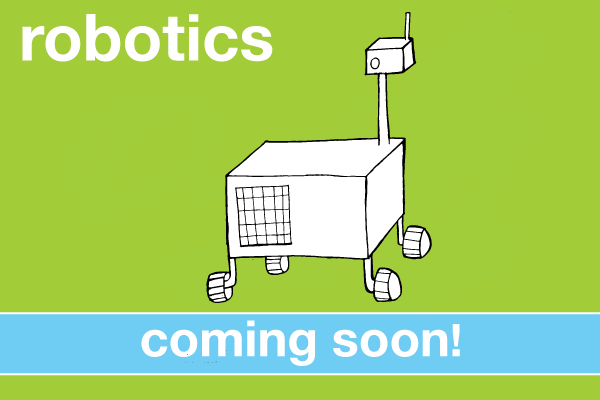
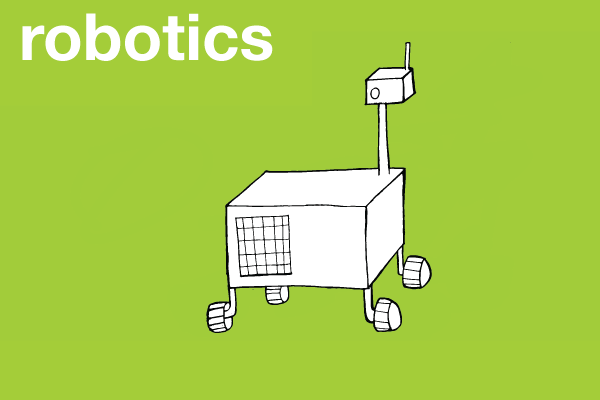
first draft robotics

diff --git a/app/assets/stylesheets/custom.css.scss b/app/assets/stylesheets/custom.css.scss
@@ -146,6 +146,11 @@ $correct_color: #008000;
 	max-width: 30%;
 }
 
+.imagerightxsmall{
+	@extend .imagerightbase;	
+	max-width: 10%;
+}
+
 .imageleftlarge{
 	@extend .imageleftbase;	
 	max-width: 60%;
@@ -164,7 +169,7 @@ $correct_color: #008000;
 
 .imageleftxsmall{
 	@extend .imageleftbase;	
-	max-width: 20%;
+	max-width: 10%;
 }
 
 

diff --git a/db/machines.rb b/db/machines.rb
@@ -95,7 +95,16 @@ section = FactoryGirl.create(:section, topic_id: topic.id, linking:"third", main
 section = FactoryGirl.create(:section, topic_id: topic.id, linking:"fourth", main_idea:"Friction is one of the main forces acting on bikes and cars", header:"<span class='accent1'>Friction</span> is one of the main <span class='accent1'>forces</span> acting on bikes and cars", content:"Friction is what allows bikes and cars to create the traction they need with the ground in order to make a forward force. The greater the friction force on the tires, the less energy that is wasted by the tire spinning without creating forward motion.  Lack of friction becomes a problem for people riding and driving on icy or snowy surfaces.  This is because they are slicker and make it harder to create the needed friction.<br><br>However, friction isn’t always helpful for bikes and cars. Drag is a type of friction that is caused by air rubbing up against the surface of the vehicle. Drag is a common problem among fast forms of transportation like cars, trains, planes, and rockets. The higher the amount of drag, the more energy has to be used to make the vehicle move. Therefore, engineers are working to minimize drag forces on cars by creating more sleeker and aerodynamic shapes. Engineers perform tests to see how to make air flow around the vehicle better. These tests help them fine-tune the shape of the vehicle to reduce drag. You can read more about drag in the Friction section.")
 section = FactoryGirl.create(:section, topic_id: topic.id, linking:"fifth", main_idea:"Bikes and cars both transfer energy between many parts to allow for forward motion", header:"Bikes and cars both <span class='accent1'>transfer energy</span> between many parts to allow for <span class='accent1'>forward motion</span>", content:"Bikes use the power of a human to power the bike forward.  A bike does this by transferring the energy that was applied by a person to the pedals to move a chain on the bike.  This chain is connected to the bike wheels that then turn, creating traction with the ground and moving the bike forward.  Handlebars are used to turn the bike.<br><br>Cars use the power created by a heat engine to move pistons.  These pistons then turn a drive shaft that transfers this power to the wheels of the car. The car is designed in an aerodynamic way so that drag is minimized.")
 
-topic = FactoryGirl.create(:topic, name:"robotics",  navgraphic: "navgraphics/robotics.png", catagory_id: catagory.id, available: "no")
+#topic = FactoryGirl.create(:topic, name:"robotics",  navgraphic: "navgraphics/robotics.png", catagory_id: catagory.id, available: "no")
+topic = FactoryGirl.create(:topic, name:"robotics",  navgraphic: "navgraphics/robotics.png", catagory_id: catagory.id)
+section = FactoryGirl.create(:section, topic_id: topic.id, linking:"first", main_idea:"Robotics is the study of robots", header:"Robotics is the <span class='accent1'>study</span> of <span class='accent1'>robots</span>", section_image: "section_images/robot_169002578.png", image_position: "imagerightxsmall", content:"Robots are everywhere! We see them all over TV, books and film.  Recent examples include Baymax in Big Hero Six to R2D2 in Star Wars to Ultron in Avengers 2: Age of Ultron. So, maybe it is not surprising that the word “robot” actually came from fiction.  The word was first used in a play in the 1920s.")
+section = FactoryGirl.create(:section, topic_id: topic.id, linking:"second", main_idea:"A robot is a machine guided by either computer programs or electric circuitry", header:"A robot is a <span class='accent1'>machine</span> guided by either <span class='accent1'>computer programs</span> or electric <span class='accent1'>circuitry</span>", section_image: "section_images/robot_pack_116544664.jpg", image_position: "imageleftsmall", content:"A robot is a mechanical machine that is guided by either computer programs or electric circuitry. Robots often work <i>autonomously</i> -- that means without human interference. Or, they may work semi-autonomously - with a little human help. Robotics is the study of anything to do with robots including design, construction, control and much more. Robotics is a fast-growing area of technology. Many types of engineers, including Computer, Mechanical and Electrical engineers, may be required to design a robotic machine.")
+section = FactoryGirl.create(:section, topic_id: topic.id, linking:"third", main_idea:"Robots have controls, sensors, parts for movement, and a power supply", header:"Robots have <span class='accent1'>controls</span>, <span class='accent1'>sensors</span>, parts for <span class='accent1'>movement</span>, and a <span class='accent1'>power supply</span>", content:"Robots are a type of machine. A machine is something with one or more parts that uses energy to do a job.  But robots are machines that can operate on their own to some degree. Some main parts of a robot are the <i>controls</i>, <i>sensors</i>, parts for<i> movement</i>, and <i>power</i>. <br><br>The controls and sensors of a robot allow it to operate with some <i>autonomy</i>. Autonomy means that the robot can do some things on its own. It may make decisions to take actions on its own.  Think of a robot traveling a maze that is programmed to make a turn when it encounters a wall.  That is an <i>autonomous</i> decision – it is programmed to make that decision on its own in that situation.<br><br>Controls include the computer programming that gives the robot its directions. The controls can be very detailed to let robots respond to many different things around it. <br><br>The sensors on the robot allow for this response to happen. The sensors detect things around the robot and provide information to allow it to make decisions. For example, sensor might detect that there is a wall in front of the robot. The controls would act on this information and respond, perhaps by turning and changing direction. The controls and sensors work as a team for the robot. There are different types of sensors. A touch sensor reacts when it touches something. That is one way that a sensor could detect a wall. There are sensors that bounce signals off surfaces and see how fast they come back, like a submarine ping. Those could also be used to detect walls. There are many types of sensors.<br><br>Machine parts for movement are also important for a robot. Robots may do many different tasks, so they may need to move in a variety of ways. Some have wheels to allow them to drive. Others have arms that allow them to move in unique patterns, such as picking up and moving objects. Some robots even have legs that let them walk like humans. <br><br>Lastly, robots need a source of power. Some robots, like the Mars Rovers, use solar panels to charge their batteries and power the robot. Others may be plugged into a wall socket, or may run on batteries.")
+section = FactoryGirl.create(:section, topic_id: topic.id, linking:"fourth", main_idea:"Robots can make cars, work in hazardous areas, or explore space", header:"Robots can <span class='accent1'>make cars</span>, work in <span class='accent1'>hazardous areas</span>, or explore <span class='accent1'>space</span> ", section_image: "section_images/robots_asstd.png", image_position: "imagerightmedium", content:"Robots are moving into many different areas of everyday life.  Below are just a few uses for robotics.<br><br>Hazardous Disaster Areas: Autonomous robots are especially useful in places that humans cannot safely go. In 2011, a large earthquake and tsunami struck Japan. The Fukushima nuclear power plant was damaged. Its radiation levels were very high and dangerous for people. So, robots were sent in to investigate the damage inside. Fully autonomous robots can gain information about their environment and maintain themselves without a human being involved for long periods of time.<br><br> Military robots: Robots can also have military uses. They can perform tasks that people used to do, and keep people out of dangerous situations. For example, robots might be used to dispose of bombs, or to explore a dangerous area and provide video, sound, and sensor data for the area. These robots may be able to climb stairs or navigate steep areas.<br><br>Space: Autonomous robots are very useful in space exploration, because the robots are far away from Earth. These robots can recharge themselves, move around, take samples, and navigate with little input from people on Earth. One example of robots used for space exploration are the Mars probes.  These robots have gone on missions to Mars to help scientists learn more about its surface and atmosphere.<br><br>Self-driving Cars: There have been recent advances autonomous cars that can drive themselves.  These cars rely on sensing the roads around them and using Global Positioning Satellites (GPS) to help move. <br><br>Manufacturing: In manufacturing, robots have replaced people in performing many repetitive and precise tasks. These roles can include welding parts together, as well as inspecting the quality of the parts. There are over 200,000 robots being used in industry today. The auto industry accounts for 35% of these. <br><br>Semi-autonomous robots do need some human help.  An example is a robotic arm. The arm has a large amount of controls and programming, but the motions are controlled by the person using it. They use a joystick, buttons, and other controls to send signals to robot to control how it moves and turns.")
+#section = FactoryGirl.create(:section, topic_id: topic.id, linking:"first", main_idea:"Many innovations are still occurring in robotics", header:"Many innovations are still occurring in robotics", content:"Autonomy is an area where many advances are currently happening in consumer robotics. For example, the cleaning robot Roomba can clean homes on its own.  This small circular robot can sense large drops, move around furniture and perform many cleaning tasks. It uses sensors and moves around using just two wheels. Also, Google is bringing autonomy into cars. Their self-driving cars use a laser system to create a 3D map of the world around them and respond. <a href='http://www.google.com/selfdrivingcar/' target='_blank'>You can read more about Google self-driving cars here</a>. <br><br>Another area that engineers have had trouble with in the past is getting robots to “read” and recognize text. This is because when we read, the lightning, size and angle that the words are at does not stop us from being able to know what it says. Complex sensing is needed to make this happen and Marge the Reading Robot is a big step in the right direction. Marge comes complete with text recognition, spell check and dictionary software to help figure out what words are and what they mean.")
+#section = FactoryGirl.create(:section, topic_id: topic.id, linking:"first", main_idea:"Ways you can explore robotics", header:"Ways you can explore robotics", content:"tbd")
+
+
 topic = FactoryGirl.create(:topic, name:"parts",  navgraphic: "navgraphics/parts.png", catagory_id: catagory.id, available: "no")
 #topic = FactoryGirl.create(:topic, name:"energy",  navgraphic: "navgraphics/machines-energy.png", catagory_id: catagory.id, available: "no")
 topic = FactoryGirl.create(:topic, name:"electronicmachinesandmotors",  navgraphic: "navgraphics/electronicmachines.png", catagory_id: catagory.id, available: "no")
